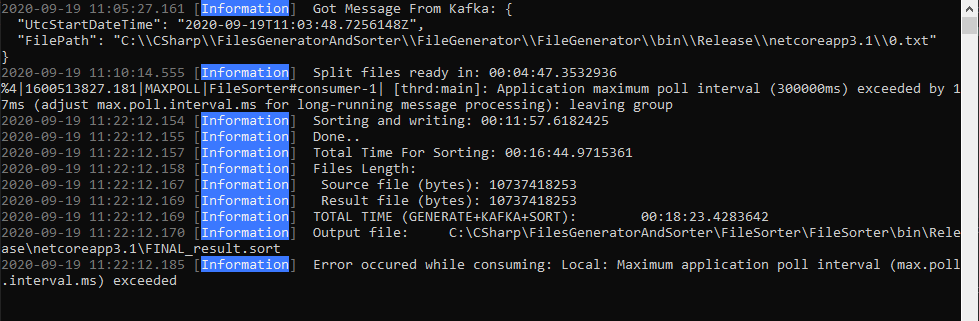
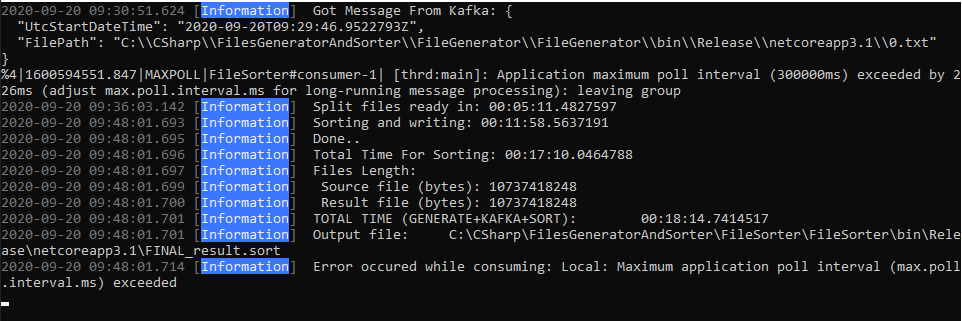
added file WriteBuffer, 1-10Mb makes writing in generator faster for up to 30sec

Changed region(s): [[0.0, 0.0, 1.0, 1.0], [0.0, 0.9346, 0.0312, 0.9657]]

diff --git a/FileGenerator/FileGenerator/Implementations/FileWorker.cs b/FileGenerator/FileGenerator/Implementations/FileWorker.cs
@@ -10,8 +10,9 @@ namespace FileGenerator.Implementations
 {
     internal static class FileWorker
     {
-        private static long _resultFileSize =
-            JsonConvert.DeserializeObject<MainConfig>(File.ReadAllText("config.json")).FileSizeBytes;
+        private static readonly MainConfig Cfg = JsonConvert.DeserializeObject<MainConfig>(File.ReadAllText("config.json"));
+        private static long _resultFileSize = Cfg.FileSizeBytes;
+        private static readonly int WriteFileBuffer = Cfg.WriteFileBufferBytes;
 
         internal static Task WriteResultFile(Dictionary<int, char[]> dictionary, string fileName)
         {
@@ -21,7 +22,7 @@ namespace FileGenerator.Implementations
             return Task.Run(() =>
             {
                 var rnd = new Random();
-                using var sw = new StreamWriter(fileName, false, Encoding.ASCII);
+                using var sw = new StreamWriter(fileName, false, Encoding.ASCII, WriteFileBuffer);
                 //allocates because of separatedLine.ToString()
                 foreach (var line in FetchData(rnd, dictionary, count, newLineSize))
                     sw.WriteLine(line);

diff --git a/FileGenerator/FileGenerator/Models/MainConfig.cs b/FileGenerator/FileGenerator/Models/MainConfig.cs
@@ -5,6 +5,7 @@ namespace FileGenerator.Models
     public class MainConfig
     {
         public long FileSizeBytes { get; set; }
+        public int WriteFileBufferBytes { get; set; }
         public string ResultFilePath { get; set; }
         public IEnumerable<string> DictionaryFilesPaths { get; set; }
         public KafkaConfig Kafka { get; set; }
